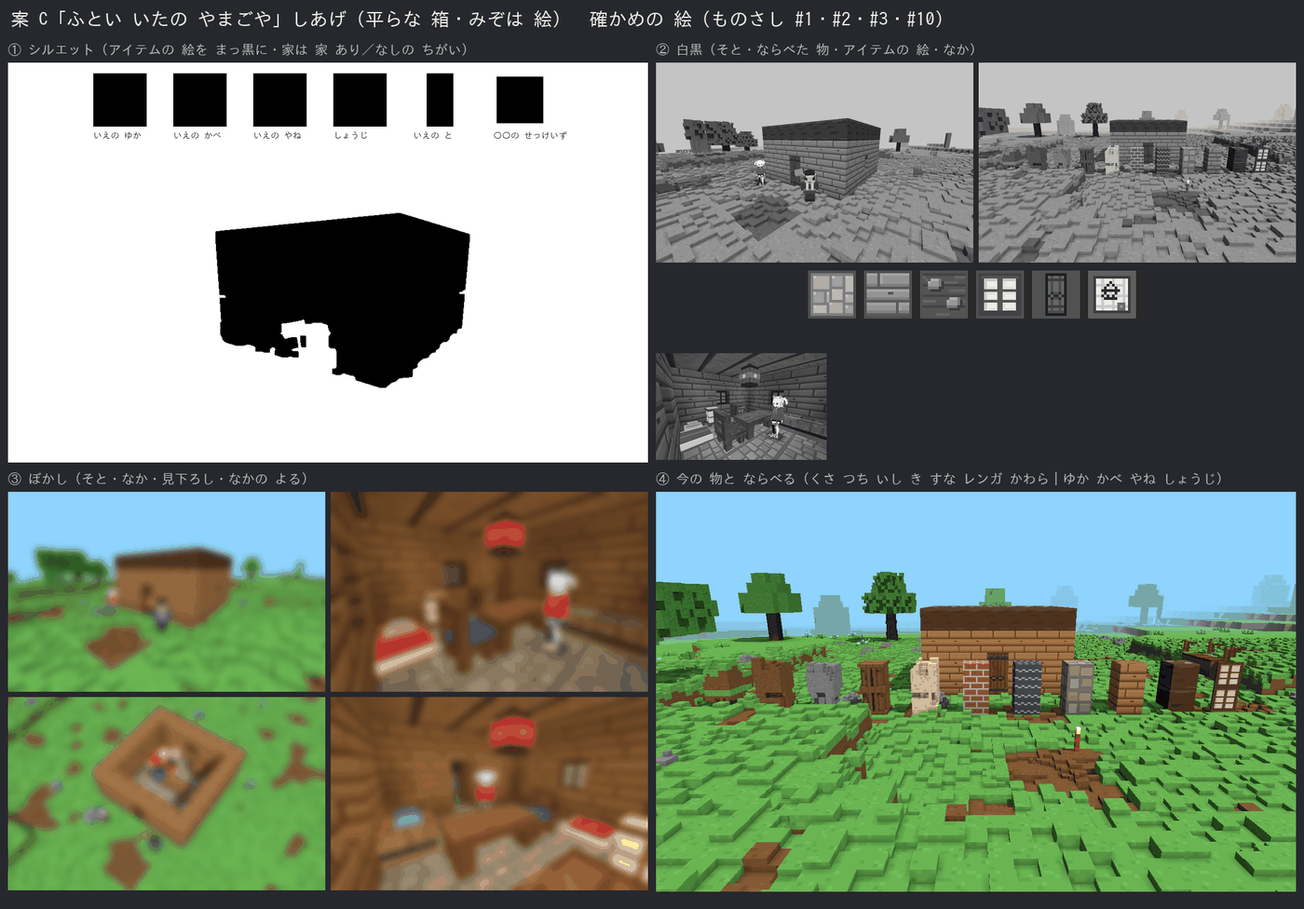
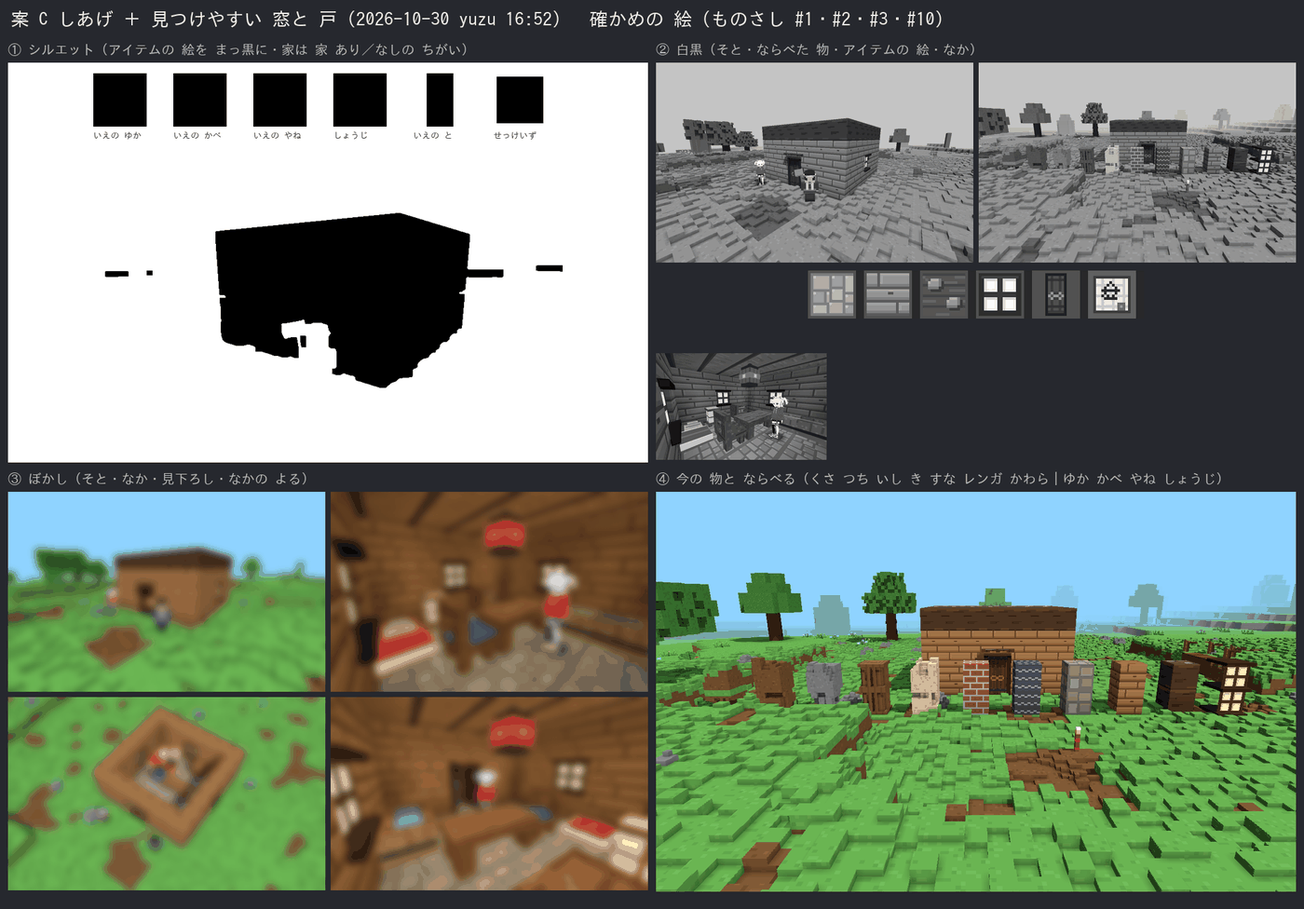
HOUSE-1 家の 見た目 C: 窓（しょうじ）と 戸を 見つけやすく（yuzu 16:52）
yuzu 16:52「窓と扉がわかりにくい」への アートの 直し（家の 見た目 だけで）。
- しょうじ: 紙を 明るく #FAF3E2・こい わく #3E2A1C と「田」の さん・上下に
  こい 木の 窓台と 上の 横木（外と 中へ 2 点）。紙は いつも 中から 明るい
  （空の光 0・ブロックの光 0.8・面の こさ 1。まわりは 明るく しない）。
- 戸: とびら #6E4628・しんちゅうの わの 取っ手 #C9952E・こい 戸わく
  （はしら・かもい。外と 中へ 1 点）・小さな ひさし（外へ 4 点）。
- 三角形: 外 7×7・窓 3 = 678 → 766、外 11×11・窓 15 = 1,414 → 1,742
  （上限 2,000）。描画 +0。
- §21・houseLookC.ts.txt・決定 6・作る係への 依頼・見本シート・確かめの 絵・
  見くらべ house-C-visibility.png を 直した。

Claude-Session: https://claude.ai/code/session_013nE4Qz2wfH214NqgZRYoX6

diff --git a/docs/art/design/06-housing.md b/docs/art/design/06-housing.md
@@ -178,12 +178,13 @@
 ## 21. 家の ブロック（ゆか・かべ・やね・しょうじ・と）と せっけいず（HOUSE-1 2 版。オーナー決定 2026-10-30: 案 C）
 
 決定: `docs/decisions/2026-10-30-house-look.md`（yuzu が 3 案から **C「ふとい いたの やまごや」** を 選んだ。15:08「最初は石と、木のいえでいいとおもうのでCでいいんじゃない？」）。仕様: `docs/design/HOUSE-1.md` §2.13・§3（色・形）・§3.5・§4.1・§4.2・§4.8。
-見本の 絵: `docs/art/house-1/`（`house-C.png` = 見本シート〔しあげ 後〕、`house-C-before-after.png` = 3 案の ときの でこぼこ（前）と しあげ（後）の 見くらべ、`checks-house-C.png` = 確かめの 絵）。数の 元: `docs/art/house-1/proto/houseLookC.ts.txt`。3 案・試作の 差分・元の スクショ: `/mnt/project-files/housing-art/house-look/`（`proto.diff` = しあげ 後の C、`proto-3an.diff` = 3 案）。
-**しあげた 見た目（平らな 箱）の スクショで もう 一度 yuzu の OK を もらう まで、ここは「見本の とおり」の きまり**（決定 5）。
+見本の 絵: `docs/art/house-1/`（`house-C.png` = 見本シート〔しあげ ＋ 見つけやすい 窓と 戸〕、`house-C-visibility.png` = 窓と 戸の 見つけやすさの 前と 後〔yuzu 16:52〕、`house-C-before-after.png` = 3 案の ときの でこぼこ（前）と しあげ（後）の 見くらべ、`checks-house-C.png` = 確かめの 絵）。数の 元: `docs/art/house-1/proto/houseLookC.ts.txt`。3 案・試作の 差分・元の スクショ: `/mnt/project-files/housing-art/house-look/`（`proto.diff` = 今の C、`proto-3an.diff` = 3 案、`visibility/` = 見つけやすさの 前と 後）。
+しあげ（平らな 箱）は 15:41 yuzu「ok」（決定 5）。**16:52 yuzu「窓と扉がわかりにくい」→ 窓と 戸を 家の 見た目 だけで 見つけやすく した（決定 6。yuzu の 確認 待ち）**。それまで ここは「見本の とおり」の きまり。
 
 ### 21.1 ひとことで
 
-- **はちみつ色の ふとい 横板の かべ、こい 木の 板に 石を のせた 平らな やね、石だたみの ゆか。** かべの あつみの 中に へこんだ しょうじと、てつの おびの あつい 2 まい とびら。「やまの こや」。1 版の 材料（かべ ＝ き、ゆか ＝ いし、しょうじ ＝ かみ）が そのまま 見える。
+- **はちみつ色の ふとい 横板の かべ、こい 木の 板に 石を のせた 平らな やね、石だたみの ゆか。** こい 木の 窓わくに はまった 明るい「田」の しょうじと、こい 戸わくと ひさしの 下の てつの おびの あつい 2 まい とびら。「やまの こや」。1 版の 材料（かべ ＝ き、ゆか ＝ いし、しょうじ ＝ かみ）が そのまま 見える。
+- **窓と 戸は 家の 見た目 だけで ひと目で 見つかる**（16:52 の 直し）: 明るさの 順を **紙（いちばん 明るい）＞ かべ ＞ とびら ＞ わく（いちばん 暗い）** に する。白黒でも 窓 ＝ こい わくの 白い しかく、戸 ＝ こい わくと ひさしの ある 暗い たての しかく。そと（ひる・よる）・なか・エディターの 小さな 見本の どれでも 同じ 形で 分かる。
 - **人が 作った 物なので 平らな 箱**（5.3・15.1）。板の みぞ・ふとさは 9×9×9 の でこぼこ では なく 16×16 の 絵（光・かげ・みぞの 線）で 見せる。でこぼこは 地形・木・石 だけ（自分の 家と 地形が 分かれる）。
 - 形の 言葉は しかく（どっしり・安心。CRITERIA #9）。横の 線（板）で 低く 広く 見せる。やねは かべより ずっと 暗い（白黒でも 分かれる。新 5）。
 
@@ -194,13 +195,14 @@
 | いえの ゆか | `house_floor` | 平らな 箱（5.3） | `hl_floor_top` / `hl_floor_side` / `hl_floor_side` |
 | いえの かべ | `house_wall` | 平らな 箱（5.3） | `hl_wall_top` / `hl_wall_top` / `hl_wall` |
 | いえの やね | `house_roof` | 平らな 箱（5.3）。下の 面 ＝ 家の 天井 | `hl_roof_top` / `hl_ceiling` / `hl_roof_side` |
-| しょうじ | `shoji` | 小物（光を 通す）。紙の 板 1 まい: 点で [0, 0, 7.5]〜[16, 16, 8.5]（かべの あつみの まん中）。**向き 2 つ**（ひだり・みぎの かべは [7.5, 0, 0]〜[8.5, 16, 16]）。上下の 面は 描かない | 前・うしろ `hl_shoji`、ふち `hl_shoji_edge` |
-| いえの と（2 マス） | `house_door` | 小物。しめた 形: 1 マス ごとに 板 [0, 0, 12]〜[16, 16, 16]（外がわ より・あつみ 4 点）。あけた 形: 外へ 90 度、左右 2 まい [0, 0, 16]〜[4, 16, 24]・[12, 0, 16]〜[16, 16, 24]（右は 絵を 8 点 ずらす）。**向き 4 つ**（外 ＝ 家の 外）。上下の 面は 描かない | 前・うしろ `hl_door_low`（下）／`hl_door_up`（上）、ふち `hl_door_edge` |
+| しょうじ | `shoji` | 小物（光を 通す）。箱 3 つ（点 = 1/16。+z = 家の 外）: **紙の 板** [0, 0, 1.5]〜[16, 16, 14.5]（かべの 面から 1.5 点 だけ へこむ。前・うしろの 面 だけ 描く）、**窓台** [−1, −1, −2]〜[17, 1, 18]・**上の 横木** [−1, 15, −2]〜[17, 17, 18]（こい 木。かべを つらぬいて 外と 中へ 2 点、横へ 1 点 出る。6 面）。**向き 2 つ**（ひだり・みぎの かべは x と z を 入れかえた 形） | 紙の 前・うしろ `hl_shoji`、ほか `hl_shoji_edge` |
+| いえの と（2 マス） | `house_door` | 小物。しめた 形: 1 マス ごとに 板 [0, 0, 12]〜[16, 16, 16]（外がわ より・あつみ 4 点）。あけた 形: 外へ 90 度、左右 2 まい [0, 0, 16]〜[4, 16, 24]・[12, 0, 16]〜[16, 16, 24]（右は 絵を 8 点 ずらす）。上下の 面は 描かない。**戸わく**（あいても しまっても 同じ。下の マスに 持たせ、点は 下の マスの 左前 下から 上の マスの 上まで 32）: **はしら** [−2, 0, −1]〜[1, 32, 17]・[15, 0, −1]〜[18, 32, 17]、**かもい** [−2, 30, −1]〜[18, 33, 17]（こい 木。外と 中へ 1 点 出る。かべに うまる 横の 面と 上の 面は 描かない）、**ひさし** [−4, 33, 16]〜[20, 35, 20]（外 だけ・外へ 4 点。かべに つく 面は 描かない）。**向き 4 つ**（外 ＝ 家の 外） | とびら `hl_door_low`（下）／`hl_door_up`（上）・ふち `hl_door_edge`、戸わく `hl_shoji_edge`、ひさし 上 `hl_roof_top`・横と 下 `hl_roof_side` |
 | 天井の ちょうちん | `lantern`（今の 小物） | 今の まま（天井の まん中に 下がる。ITEM-FX-1） | 今の 絵 |
 | 置いた ふとん | `futon`（今の 小物・2 マス） | **今の まま**（決定 3。家の 外に 置いた ふとんも 同じ） | 今の 絵 |
 
-- しょうじの へこみ: まわりの かべの 面（窓の 上下左右）が 見えて 「あつい かべの 中の 窓」に なる（箱の わくは 作らない）。
-- 面の 明るさ・AO は ほかの 平らな 箱・小物と 同じ（3.1・3.2）。ふち線 なし。
+- しょうじの へこみは 1.5 点 だけ（ななめから 見ても 紙が かくれない）。窓台・上の 横木（こい 木）と 紙の 絵の こい わくで「ここが まど」。横に ならべると 窓わくが 2 点 かさなる が 同じ 色なので 目立たない（建築士さんの ならびは 2 マス あく ので おきない）。
+- **しょうじの 紙は いつも 中から 明るく 見える**（見た目 だけ。天井の ちょうちんと 同じ「自分で 光る」描き方）: 紙の 前・うしろの 面だけ 空の光 0・ブロックの光 12（0〜1 で 0.8）・面の 向きの こさ 1（かげ なし）で 描く。→ 日の 影を うけず どの かべの 窓も 同じ 明るさ、ひるは 明るい 紙、よるは あかりの 色（だんだん 色の 光）。まわりは 明るく しない（光の 計算は 今の まま）。
+- ほかの 面の 明るさ・AO は ほかの 平らな 箱・小物と 同じ（3.1・3.2）。ふち線 なし。
 
 ### 21.3 色の 表（`PAL_C`）
 
@@ -213,10 +215,11 @@
 | やねの ふち | `#5A3E2A`・`#6E4E36`・`#462F1E` | やねの 横 |
 | 天井 ／ はり | `#B98450`・`#C8935E`・`#A87443` ／ `#5E4230`・`#70503A` | やねの 下 |
 | 石だたみ ／ 目地 | `#B5A994`・`#A99D87`・`#BFB4A0`・光 `#CCC2AE` ／ `#867D71` | ゆか |
-| 紙 ／ 紙の かげ ／ わく ／ さん | `#EFE4CA`・`#E5D8BC` ／ `#D8C9A8` ／ `#5A3E2A`・光 `#6E4E36` ／ `#6E4E36` | しょうじ |
-| とびら ／ てつの おび ／ わの 取っ手 | `#8D5E36`・`#6E4626` ／ `#3E3C44`・`#5C5A64` ／ `#2C2A32` | 戸 |
+| 紙 ／ 紙の かげ ／ わく ／ さん | `#FAF3E2`・`#F1E8D3` ／ `#E4D7BA` ／ `#3E2A1C`・光 `#563B27` ／ `#4A3222` | しょうじ（わくの 色は 窓台・上の 横木・戸わくにも 使う） |
+| とびら ／ てつの おび ／ わの 取っ手 | `#6E4628`・光 `#80542F`・`#55341D` ／ `#34323A`・`#55535D` ／ しんちゅう `#C9952E`・光 `#E8BE5A` | 戸 |
 
-- 色の 割合: はちみつ色の 板 が ベース（家の 7 割）、こい 木の やね が メイン、紙の 白・てつの 黒 が アクセント（CRITERIA #6）。
+- 色の 割合: はちみつ色の 板 が ベース（家の 7 割）、こい 木の やね が メイン、紙の 白・こい わく・しんちゅう が アクセント（CRITERIA #6）。
+- 16:52 の 直しで かえた 色: 紙を 明るく（`#EFE4CA` → `#FAF3E2`）、わく・さんを こく（`#5A3E2A`・`#6E4E36` → `#3E2A1C`・`#4A3222`）、とびらを こく（`#8D5E36` → `#6E4628`。かべ `#BF8952` と はっきり ちがう）、わの 取っ手を 黒 → しんちゅう（`#2C2A32` → `#C9952E`）。
 - 木の 茶は 暗い 段ほど 少し 赤く 深く（`#CE9A62` → `#BF8952` → `#A77442` → `#7E5231`。#7）。まっ白・まっ黒は 使わない。
 
 ### 21.4 絵の きまり（ふとさを 絵で 見せる。光は 上から）
@@ -229,8 +232,9 @@
 | `hl_roof_side` やねの ふち | こい 木。上の 行に 光、下の 行に かげ |
 | `hl_ceiling` 天井 | 明るい 板 ＋ こい はり（1 ブロック ごと） |
 | `hl_floor_top` ・`hl_floor_side` ゆか | 石だたみ（目地の 中に 3 色の 石。石の 左上 1 点が 光） |
-| `hl_shoji` しょうじ | 紙 ＋ わく 2 点（こい 木。上の ふち 1 行は 光）＋ さん（たて 2 点・よこ 1 点 × 2）。わくの 内がわ 上・左に かげ 1 点（紙が おくに ある ように） |
-| `hl_door_low`・`hl_door_up` 戸 | たての あつい 板（2 まいの あわせ目は まん中 2 点）＋ てつの おび（下の マス 11 行目・上の マス 3 行目）＋ わの 取っ手 2 つ（下の マス） |
+| `hl_shoji` しょうじ | 明るい 紙 ＋ こい わく 2 点（まわり 4 辺。上の ふちの 内がわ 1 行は 光）＋「田」の さん（たて 7〜8 列・よこ 7〜8 行。どちらも 2 点）。4 つの ますの 上・左に かげ 1 点（紙が わくの おくに ある ように） |
+| `hl_shoji_edge` わく | こい 木（わくの 色）に 少し 暗い すじ。窓台・上の 横木・戸わく・紙の ふち |
+| `hl_door_low`・`hl_door_up` 戸 | こい たての あつい 板（2 まいの あわせ目は まん中 2 点）＋ てつの おび（下の マス 11 行目・上の マス 3 行目）＋ しんちゅうの わの 取っ手 2 つ（下の マス。左上に 光 1 点） |
 
 - 1 まい 5 色 くらいまで。シード つき（Math.random なし）。数は `houseLookC.ts.txt` の `houseLookTiles()` が 正。
 - 細かさ（#4）: 細かいのは 戸の 金具・やねの 石・しょうじの さん だけ。かべは 横の 線が ならぶ だけで 休む 所（まん中の 板）を のこす。
@@ -238,7 +242,7 @@
 ### 21.5 アイテムの 絵（16×16）
 
 - **今の ブロックの アイテムと 同じ きまり**（`itemIconPixels`: ブロックの 面の 16×16 を そのまま）: いえの かべ ＝ 横の 面（`hl_wall`）、いえの ゆか・いえの やね ＝ **上の 面**（`hl_floor_top`・`hl_roof_top`。はたけ と 同じ 例外。横の 面では 今の いし・き と 見分けにくい）、しょうじ ＝ 前の 面（`hl_shoji`）。
-- **物の 絵**（ふとん・ちょうちんと 同じ。ふち 1 点 `#2A1E14`）: いえの と ＝ 立てた 2 まい とびら（てつの おび・わの 取っ手。2 マスなので ブロックの 面では なく 全体）、〇〇の せっけいず ＝ 方眼の 紙に 家の 線 ＋ 赤い はんこ（絵は 1 つ。番号・名前は 字で 分かる）。
+- **物の 絵**（ふとん・ちょうちんと 同じ。ふち 1 点 `#2A1E14`）: いえの と ＝ 立てた 2 まい とびら（てつの おび・しんちゅうの わの 取っ手。2 マスなので ブロックの 面では なく 全体）、〇〇の せっけいず ＝ 方眼の 紙に 家の 線 ＋ 赤い はんこ（絵は 1 つ。番号・名前は 字で 分かる）。
 - 3 案の ときの「ななめから 見た 小さな ブロック」は やめた（今の アイテムに ななめの 絵は なく、ホットバー・もちもので 浮く。#10）。そのかわり ゆか・かべ・やね は 模様（石だたみ・横板・石）で 分ける（#13）。
 - 下地の 色（カテゴリー。PO 案）: 家の ブロック 5 つ ＝ たてもの（かわら・レンガと 同じ）、せっけいず ＝ いえ（たんす・ふとんと 同じ）。
 
@@ -251,17 +255,17 @@
 
 はかり方: 同じ 家を 空の 区（16×16×16）に うかべて 置き、区の 三角形を `world.sectionInfo` で 読む。地面に 建てた ときは 床の 下と 床の まわりの 面（外 W×D と 2(W＋D) 面）を ひく。家具は のぞく（§19.9）。
 
-| もの | 3 案の とき（かべに みぞ） | しあげ（平らな 箱） | 上限 |
-|---|---|---|---|
-| ゆか・かべ・やね 1 こ | ― | 平らな 箱 12（宙に 1 こ） | **12**（15.1「人が 作った 道具」） |
-| しょうじ 1 こ | 60（わくの 箱 5 つ） | **8**（紙の 板の 4 面） | **12** |
-| 戸 1 マス | 16（しめた 形、板 2 まい） | **8**（しめた 形）／ 16（あけた 形） | **16** |
-| 見本の 家（外 7×7・窓 3・ちょうちん・ふとん） | 6,792 | **678** | ― |
-| いちばん 大きい 家（外 11×11・窓 15） | 12,108 | **1,414** | **2,000** |
-| 描画 | +0 | **+0**（ぜんぶ 区の メッシュ） | +0 |
+| もの | 3 案の とき（かべに みぞ） | しあげ（平らな 箱） | 見つけやすく（16:52） | 上限 |
+|---|---|---|---|---|
+| ゆか・かべ・やね 1 こ | ― | 平らな 箱 12（宙に 1 こ） | 12 | **12**（15.1「人が 作った 道具」） |
+| しょうじ 1 こ | 60（わくの 箱 5 つ） | 8（紙の 板の 4 面） | **28**（紙 2 面 ＋ 窓台・上の 横木 6 面ずつ） | **32** |
+| 戸 1 つ（2 マス） | 32（しめた 形） | 16（しめた）／ 32（あけた） | **44**（しめた）／ **60**（あけた）。戸わく 28（はしら 3 面×2・かもい 3 面・ひさし 5 面）を ふくむ | **64** |
+| 見本の 家（外 7×7・窓 3・ちょうちん・ふとん） | 6,792 | 678 | **766** | ― |
+| いちばん 大きい 家（外 11×11・窓 15） | 12,108 | 1,414 | **1,742** | **2,000** |
+| 描画 | +0 | +0 | **+0**（ぜんぶ 区の メッシュ） | +0 |
 
 - いちばん 大きい 家に 家具を 置けるだけ 置いても（ほんだな 47 こ で 約 12,400。§19.9）、画面の 上限（r=32 で 120 万）の 約 1%。
-- 上限を こえる ときは、まず しょうじ・戸の 面を へらす（となりが かべの 面を 描かない）。かべに でこぼこを 付けない。
+- 上限を こえる ときは、まず しょうじ・戸の 面を へらす（となりが かべの 面を 描かない）。かべに でこぼこを 付けない。窓わく・戸わく・ひさしは 見つけやすさの ため（yuzu 16:52）なので けさない（へらすなら 窓台・上の 横木の 左右の はしの 面から）。
 
 ### 21.8 ものさし表（しあげ 後の 案 C）と 確かめの 絵
 
@@ -269,17 +273,17 @@
 
 | # | 家 | アイテムの 絵 | メモ（△ の わけ） |
 |---|---|---|---|
-| 1 シルエット | ○ | △ | 家は 平らな 屋根の 箱（新 5）に 戸・窓の くぼみ。ゆか・かべ・やね・しょうじ の 絵は 今の ブロックと 同じ 四角（模様で 分ける）。戸・せっけいずは 形が ちがう |
-| 2 白黒 | ○ | ○ | やね（暗い）／かべ（中）／しょうじ（明るい）／ゆか（明るい 灰）が 分かれる |
-| 3 ぼかし | △ | ○ | そとは 戸と 窓に 目が 行く。なかは かべも 家具も 木の 茶色で 家具が かべに とけやすい（ちょうちん・ざぶとん・プレイヤーは うかぶ） |
+| 1 シルエット | ○ | △ | 家は 平らな 屋根の 箱（新 5）に 戸わく・ひさし・窓わくの でっぱり。ゆか・かべ・やね・しょうじ の 絵は 今の ブロックと 同じ 四角（模様で 分ける）。戸・せっけいずは 形が ちがう |
+| 2 白黒 | ○ | ○ | やね（暗い）／かべ（中）／しょうじの 紙（いちばん 明るい・こい わく）／戸（暗い・こい わく）／ゆか（明るい 灰）が 分かれる |
+| 3 ぼかし | △ | ○ | そとは 戸（暗い しかく）と 窓（明るい しかく）に 目が 行く。なかも 窓が いちばん 明るい。なかは かべも 家具も 木の 茶色で 家具が かべに とけやすい（ちょうちん・ざぶとん・プレイヤーは うかぶ） |
 | 4 細かさ | ○ | ○ | かべは 横の 線 だけ（3 案の ときの みぞの でこぼこを やめた）。細かいのは 戸の 金具・石・さん |
-| 5 さわれそう | ○ | ○ | 戸の わの 取っ手・しょうじの 紙 |
+| 5 さわれそう | ○ | ○ | 戸の しんちゅうの わの 取っ手・しょうじの 紙 |
 | 6 色の 割合 | ○ | ○ | 21.3 |
 | 7 色の 段 | ○ | ○ | 21.3 |
 | 8 色の なかま | △ | ○ | かべ・やねは つち・き と 同じ 茶色の なかま（明るさ・横の 線で 分ける） |
 | 9 形の 言葉 | ○ | ○ | しかく ＋ 横の 線 |
 | 10 ならべて 浮かない | ○ | ○ | 平らな 箱（レンガ・かわらと 同じ）・ドットの 大きさ 16。アイテムの 絵も 今の きまり |
-| 12 字を 読まずに | ○ | ○ | 戸 ＝ とびら、しょうじ ＝ 窓、せっけいず ＝ 家の 絵の 紙 |
+| 12 字を 読まずに | ○ | ○ | 戸 ＝ わくと ひさしの ある とびら、しょうじ ＝「田」の 明るい 窓、せっけいず ＝ 家の 絵の 紙 |
 | 13 色だけに たよらない | ○ | ○ | 横板・石だたみ・石・ます目 で 模様が ちがう |
 | 16 音・絵・字 | ○ | ― | 戸が あく・しまるで 形が 大きく かわる（音は サウンド） |
 | 17 子どもっぽすぎない | ○ | ○ | |
@@ -291,11 +295,12 @@
 
 1. 絵・形・数は `docs/art/house-1/proto/houseLookC.ts.txt` を 正に する（見本 `house-C.png` を 撮った コードと 同じ）。
 2. ゆか・かべ・やね は 5.3 の 平らな 箱、しょうじ・戸 は 小物（ふとん・ちょうちんと 同じ しくみ。光を 通す）。
-3. 見た目を 変えたら、`house-C.png` と 同じ 場面を ゲームの 中で 撮って くらべる。
+3. 見た目を 変えたら、`house-C.png` と 同じ 場面を ゲームの 中で 撮って くらべる。窓と 戸は `house-C-visibility.png` の 4 つの 場面（そと ひる・よる、なか、エディターの 見本に 近い 外 7×7 の ななめ。小さく しても）で 見つかるか を 見る。
 
 ### 21.10 まだ 決めて いない こと
 
 - 足場・かためた つち・みずもり／どうづきを 手に 持った 形・エディターの ボタンの 絵（#340 の 前に 別に 3 案）。
-- しまった 戸が 光を 止めるか（試作では 小物 なので 光を 通す → よる、戸と 窓から ちょうちんの 光が 外へ もれる）。
+- しまった 戸が 光を 止めるか（試作では 小物 なので 光を 通す → よる、戸と 窓から ちょうちんの 光が 外へ もれる）→ PO: しめても 光を 通す（決定 の「のこる 気を つける 所」）。
+- しょうじの 紙が 中に あかりが ない 家でも 明るく 見えて よいか（見つけやすさの ため 今は いつも 明るい。yuzu の 確認 待ち）。
 - エディターの「なか」の 見本（屋根なし）での 天井の ちょうちんの 見せ方（宙に うく。印に する か やねの ふちだけ のこす）。
 - 家具の くり茶 と かべの はちみつ色の 明るさの 差（#3）は、本番の スクショで 見て から 直す。

diff --git a/docs/art/requests/HOUSE-1-house-blocks.md b/docs/art/requests/HOUSE-1-house-blocks.md
@@ -2,7 +2,7 @@
 
 2026-10-30 art-director。オーナー（yuzu）決定 2026-10-30 15:08: 案 C「ふとい いたの やまごや」（`docs/decisions/2026-10-30-house-look.md`）。
 見た目の きまり: `docs/art/design/06-housing.md`（DESIGN §21）。この メモは「どの コードを 元に、どう 入れるか」。
-**yuzu の OK は まだ**（決定 5: しあげた 平らな 箱の スクショで もう 一度 見て もらう）。OK の 前は、絵・形を 1 か所に まとめて 仮で 入れて よい（#339 の タスク票「見本の 家の 色・形は 仮で よい」と 同じ）。
+しあげ（平らな 箱）は 15:41 yuzu「ok」（決定 5）。**窓と 戸の 見つけやすさ（16:52 yuzu「窓と扉がわかりにくい」の 直し。決定 6）は yuzu の 確認 待ち**。確認の 前は、絵・形を 1 か所に まとめて 仮で 入れて よい（#339 の タスク票「見本の 家の 色・形は 仮で よい」と 同じ）。
 
 ## 読むもの
 - DESIGN §21（ブロック・絵・色・戸と しょうじの 箱・アイテムの 絵・三角形）、§5.3（平らな 箱で 描く ブロック。`docs/art/design/01-world.md`）、§15.1（1 ブロックの 三角形。`03-budget.md`）、§19.6〜19.9（家具。家具は もう 決まった 案 A）。
@@ -13,7 +13,7 @@
 | 何 | パス | 使う 所 |
 |---|---|---|
 | **数の 元（案 C だけ）** | `docs/art/house-1/proto/houseLookC.ts.txt` | `houseLookTiles()`（タイル 12 まい）・`PAL_C`・`doorBoxes()`・`shojiBoxes()`・`houseLookIcons()`（アイテムの 絵 6 つ）。見本の 絵（`house-C.png`）を 撮った コードと 同じ |
-| ゲームに 入れた 試作 ぜんぶ | `/mnt/project-files/housing-art/house-look/proto.diff`（main `aef3ea4` に `git apply`。`?proto=houselook`） | ブロックの 足し方（`blockTypes.ts`・`textures.ts` の `BLOCK_TILES`）、戸・しょうじを 小物の 箱で 描く（`src/proto/houselook/props.ts` の `pushHouseLookProp`: 面の 絵の うつし方・上下の 面を けす）、見本の 家を 建てる（`src/game/wire/protoHouseLook.ts`: `windowCells()` ＝ §4.2 の 窓の 場所） |
+| ゲームに 入れた 試作 ぜんぶ | `/mnt/project-files/housing-art/house-look/proto.diff`（main `d64d6e7` に `git apply`。`?proto=houselook`） | ブロックの 足し方（`blockTypes.ts`・`textures.ts` の `BLOCK_TILES`）、戸・しょうじを 小物の 箱で 描く（`src/proto/houselook/props.ts` の `pushHouseLookProp`: 面の 絵の うつし方・上下の 面と かべに うまる 面（`skip`）を けす・しょうじの 紙を いつも 明るく（`glow`））、見本の 家を 建てる（`src/game/wire/protoHouseLook.ts`: `windowCells()` ＝ §4.2 の 窓の 場所） |
 | 平らな 箱の ブロック | `src/world/blocks/textures.ts`（`TILE_NAMES`・`BLOCK_TILES`・`tileSubUv`）、DESIGN 5.3 の 表 | ゆか・かべ・やね |
 | 小物（箱の 組み合わせ・光を 通す） | `src/world/render/meshChunk.ts`（`pushProp`・`PROP_SHAPES`・`turnBox`）、`src/world/blocks/blockTypes.ts`（`PROP_IDS`）、`src/world/blocks/futon.ts`（向きで id を 分ける） | しょうじ・戸 |
 | アイテムの 絵 | `src/ui/itemIcon.ts`（`itemIconPixels`: ブロックの 面。はたけ は 上の 面）、`src/ui/itemArtM4.ts`（ふとん・ちょうちんの 物の 絵） | 家の ブロック 5 つ・せっけいず |
@@ -26,13 +26,15 @@
 3. 形は ただの 1 ブロックの 箱（9×9×9 の でこぼこを 付けない。`gotsugotsu` などの Look に 足さない）。影・AO は ほかの 平らな 箱と 同じ。
 
 ### 2. しょうじ（小物。光を 通す）
-1. 紙の 板 1 まい: 点で [0, 0, 7.5]〜[16, 16, 8.5]（かべの あつみの まん中）。前・うしろ ＝ hl_shoji、ふち ＝ hl_shoji_edge。**上下の 面は 描かない**（上と 下は かべ）。
-2. **向きが 2 つ**: まえ・うしろの かべ（紙が 東西に のびる）と ひだり・みぎの かべ（[7.5, 0, 0]〜[8.5, 16, 16]）。ふとんと 同じく id を 分ける か 向きを 持つ（developer が 決める）。建築士さんは かべの 向きで 置く。手で 置く ときは プレイヤーの 向き。
-3. まわりの かべの 面（窓の 上下左右）は ふつうに 見える 面と して 描く（ここが「へこんだ しょうじ」の あつみに 見える）。
-4. 光: 不透明度 0（小物と 同じ）。妖怪・プレイヤーは 通れない（仕様 §4.6 の 表）。
+1. 箱 3 つ（`shojiBoxes()`。点 = 1/16、+z = 家の 外）: **紙の 板** [0, 0, 1.5]〜[16, 16, 14.5]（前・うしろ ＝ hl_shoji。**前・うしろの 面 だけ 描く**: 上下は かべ、左右は となりの かべに うまる）、**窓台** [−1, −1, −2]〜[17, 1, 18]・**上の 横木** [−1, 15, −2]〜[17, 17, 18]（hl_shoji_edge。6 面）。
+2. **紙は いつも 中から 明るく 見える**（`glow`）: 紙の 面だけ 頂点の 光を 空の光 0・ブロックの光 0.8（12/15）、面の こさ 1 に する（ちょうちんの「自分で 光る」と 同じ 考え）。日の 影を うけず、どの かべの 窓も 同じ 明るさ、よるは あかりの 色。まわりの 光の 計算は かえない。
+3. **向きが 2 つ**: まえ・うしろの かべ と ひだり・みぎの かべ（x と z を 入れかえた 形。`swapXZ`）。ふとんと 同じく id を 分ける か 向きを 持つ（developer が 決める）。建築士さんは かべの 向きで 置く。手で 置く ときは プレイヤーの 向き。
+4. まわりの かべの 面（窓の 左右の あなの 面）は ふつうに 見える 面と して 描く。
+5. 光: 不透明度 0（小物と 同じ）。妖怪・プレイヤーは 通れない（仕様 §4.6 の 表）。
 
 ### 3. いえの と（2 マス・あく／しまる。小物）
-1. しめた 形: 1 マス ごとに 板 1 まい [0, 0, 12]〜[16, 16, 16]（外がわ より、あつみ 4 点）。前・うしろ ＝ hl_door_low（下の マス）／ hl_door_up（上の マス）、ふち ＝ hl_door_edge。上下の 面は 描かない。2 まいの あわせ目・てつの おび・わの 取っ手は 絵。
+1. しめた 形: 1 マス ごとに 板 1 まい [0, 0, 12]〜[16, 16, 16]（外がわ より、あつみ 4 点）。前・うしろ ＝ hl_door_low（下の マス）／ hl_door_up（上の マス）、ふち ＝ hl_door_edge。上下の 面は 描かない。2 まいの あわせ目・てつの おび・しんちゅうの わの 取っ手は 絵。
+   - **戸わく と ひさし**（`DOOR_FRAME`。あいても しまっても 同じ。下の マスに 持たせ、点は 下の マスの 左前 下から）: はしら [−2, 0, −1]〜[1, 32, 17]・[15, 0, −1]〜[18, 32, 17]、かもい [−2, 30, −1]〜[18, 33, 17]（hl_shoji_edge。外と 中へ 1 点 出る）、ひさし [−4, 33, 16]〜[20, 35, 20]（上 hl_roof_top・横と 下 hl_roof_side。外 だけ）。**かべに うまる 面は 描かない**（`skip`: はしらの 外がわの 横と 上・かもいの 左右と 上・ひさしの うしろ）。
 2. あけた 形: 外へ 90 度、左右に 2 まい（[0, 0, 16]〜[4, 16, 24] と [12, 0, 16]〜[16, 16, 24]。大きな 面に とびらの 絵、右の とびらは 絵を 8 点 ずらす）。
 3. **向きが 4 つ**（戸は まえ・みぎ・うしろ・ひだり の かべ。外 ＝ 家の 外がわ）。ふとんの `turnBox` と 同じ やり方で まわす。
 4. あく・しまるは 形が 入れかわる だけ（動きの GIF は いらない。yuzu 2026-10-30「決まった見た目に付く小さな動きは GIF 確認を省く」）。音は サウンド チーム。
@@ -46,15 +48,15 @@
 3. 下地の 色（カテゴリー）は PO 案: 家の ブロック 5 つ ＝ たてもの（かわら・レンガと 同じ）、せっけいず ＝ いえ（たんす・ふとんと 同じ）。
 
 ### 6. #339 エディターの 見本・#340 建てた 家 で 使う 物
-- **#339**: ① そとの 見本（3D で 回る）・② なかの 見本（屋根なしの ななめ 見下ろし）は 上の ブロック・小物・家具を 今の レンダラーで 描く（`HOUSE-1B.md`: 2 つ目の WebGL を 作らない）。窓の 場所は 仕様 §4.2（試作の `windowCells()` が 同じ 式）。なかの 見本では 屋根が ない ので ちょうちんは 宙に うく → 印に する か、やねの ふちだけ のこす（デザインと 相談）。せっけいずの アイテムの 絵（5-2）。
+- **#339**: ① そとの 見本（3D で 回る）・② なかの 見本（屋根なしの ななめ 見下ろし）は 上の ブロック・小物・家具を 今の レンダラーで 描く（`HOUSE-1B.md`: 2 つ目の WebGL を 作らない）。見本も ゲームと 同じ 窓と 戸（紙の 板の 場所・窓台と 上の 横木・戸わく・ひさし・紙は いつも 明るい。色は `PAL_C`）。窓の 場所は 仕様 §4.2（試作の `windowCells()` が 同じ 式）。なかの 見本では 屋根が ない ので ちょうちんは 宙に うく → 印に する か、やねの ふちだけ のこす（デザインと 相談）。せっけいずの アイテムの 絵（5-2）。
 - **#340**: 建てた 家 ＝ 上の ブロック 3 つ・しょうじ・戸・天井の ちょうちん。家具 5 つは §19。
 
 ### 7. 三角形（DESIGN §21.7）
-- ゆか・かべ・やね は 1 こ 12 まで（平らな 箱）。しょうじ 1 こ 8（4 面）、戸 1 マス 8（しめた）／16（あけた）。
-- 家 1 けん（外 11×11・窓 15）の ブロック ≤ 2,000（試作 1,414）。描画 +0（区の メッシュ）。ユニットテストで たしかめる（区の メッシュの 三角形）。
+- ゆか・かべ・やね は 1 こ 12 まで（平らな 箱）。しょうじ 1 こ 28（上限 32）、戸 1 つ（2 マス）44（しめた）／60（あけた）（上限 64。戸わく 28 を ふくむ）。
+- 家 1 けん（外 11×11・窓 15）の ブロック ≤ 2,000（試作 1,742。見本の 外 7×7・窓 3 は 766）。描画 +0（区の メッシュ）。ユニットテストで たしかめる（区の メッシュの 三角形）。
 
 ### 8. たしかめ（見た目が 変わる ので、マージの 前に yuzu の OK）
-- ゲームの 中で `docs/art/house-1/house-C.png` と 同じ 場面（そと ななめ 前・なか・よるの なか・屋根なしの 見下ろし・あいた 戸・今の ブロックと ならべる）を 撮って PO に わたす（PO → yuzu）。art-director が 見る 点: 板の 線と かげの 向き（光は 上）・やねと かべの 明るさの 差・しょうじの 向き（窓が 細い すき間に 見えない）・戸の 向き・アイテムの 絵の 面。
+- ゲームの 中で `docs/art/house-1/house-C.png` と 同じ 場面（そと ななめ 前・なか・よるの なか・屋根なしの 見下ろし・あいた 戸・今の ブロックと ならべる）を 撮って PO に わたす（PO → yuzu）。art-director が 見る 点: 板の 線と かげの 向き（光は 上）・やねと かべの 明るさの 差・しょうじの 向き（窓が 細い すき間に 見えない）・戸の 向き・アイテムの 絵の 面・**窓と 戸が ひと目で 見つかるか**（`house-C-visibility.png` の 場面: そと ひる・よる、なか、エディターの 見本に 近い 外 7×7 の ななめ）。
 
 ## しない こと
 - 形・色・数を 変えない（変える ときは art-director に 聞く）。かべに でこぼこ（9×9×9 の みぞ）を 付けない。

diff --git a/docs/art/DESIGN.md b/docs/art/DESIGN.md
@@ -29,7 +29,7 @@
 | §17・18 ドット絵の板のエフェクトは十字・雷神剣の雷 B・エフェクトの数と点の大きさ | `docs/art/design/05-effects.md` | エフェクト・わざの光（`docs/art/EFFECT-KNOWLEDGE.md` もいっしょに） |
 | §19 ハウジング（建築士さん・テーブル・いす・あんどん・ほんだな・おふろ。形・色・うなずき・ほかの動きの目安・三角形） | `docs/art/design/06-housing.md` | 建築士さん・家具・家の中の物（作る係への依頼は `docs/art/requests/HOUSE-1-architect-furniture.md`） |
 | §20 炭鉱（鉱石は B「とびだす つぶ」〔ダイヤも〕・ねんど／せっかいせき／しっくい／坑道のわくは A・つらら・ほたるいしの光 7〔光る 数は ほたるの ほらあなだけ 例外〕・宝箱 4 段階 v2〔4 つ とも 2a の 形・2 マス、かざりと 色で 段。ふたの 動きは chest-v2-open.gif の とおり〔yuzu の 確認 なし〕〕） | `docs/art/design/07-mine.md` | 地下・鉱石・坑道・ほらあなのブロック・宝箱（MINE-1。作る係への依頼は `docs/art/requests/MINE-1-blocks.md`） |
-| §21 家の ブロック（ゆか・かべ・やね・しょうじ・と）・天井の ちょうちん・置いた ふとん・せっけいずの 絵（案 C「ふとい いたの やまごや」。平らな 箱で 板の みぞ・ふとさは 絵〔光・かげ・みぞの 線〕、しょうじは かべの あつみの 中の 紙の 板、戸は てつの おびの 2 まい とびら、ふとん・ちょうちんは 今の まま、アイテムの 絵は 今の ブロックと 同じ「ブロックの 面」） | `docs/art/design/06-housing.md` | 建築士さんが 建てる 家の ブロックと せっけいず（HOUSE-1 2 版。作る係への依頼は `docs/art/requests/HOUSE-1-house-blocks.md`） |
+| §21 家の ブロック（ゆか・かべ・やね・しょうじ・と）・天井の ちょうちん・置いた ふとん・せっけいずの 絵（案 C「ふとい いたの やまごや」。平らな 箱で 板の みぞ・ふとさは 絵〔光・かげ・みぞの 線〕、しょうじは こい 窓わくに 明るい「田」の 紙〔いつも 中から 明るい〕、戸は こい 戸わくと ひさしの ある てつの おびの 2 まい とびら〔しんちゅうの 取っ手〕。窓と 戸は 見た目 だけで ひと目で 見つかる〔yuzu 16:52〕、ふとん・ちょうちんは 今の まま、アイテムの 絵は 今の ブロックと 同じ「ブロックの 面」） | `docs/art/design/06-housing.md` | 建築士さんが 建てる 家の ブロックと せっけいず（HOUSE-1 2 版。作る係への依頼は `docs/art/requests/HOUSE-1-house-blocks.md`） |
 
 - 新しい章を足すときは `docs/art/design/` に 1 本足し、この表に 1 行足す。決まったことは章のファイルを直して「今の 1 本」にする（版ごとに別ファイルを作らない）。
 - 動きのものさしは `docs/art/MOTION.md`・`docs/art/MOTION-NOTES.md`、見た目のものさしは `docs/art/CRITERIA.md`、作り方は `docs/art/PIPELINE.md`。
